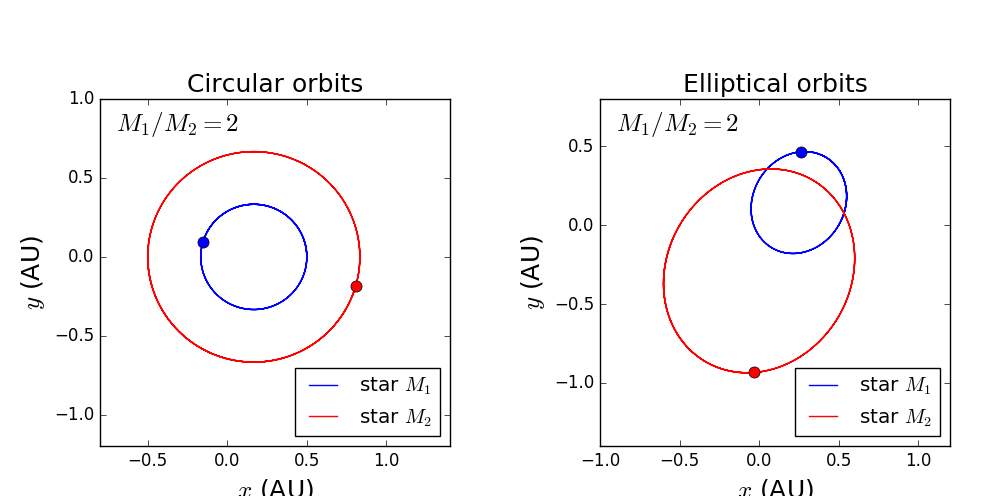
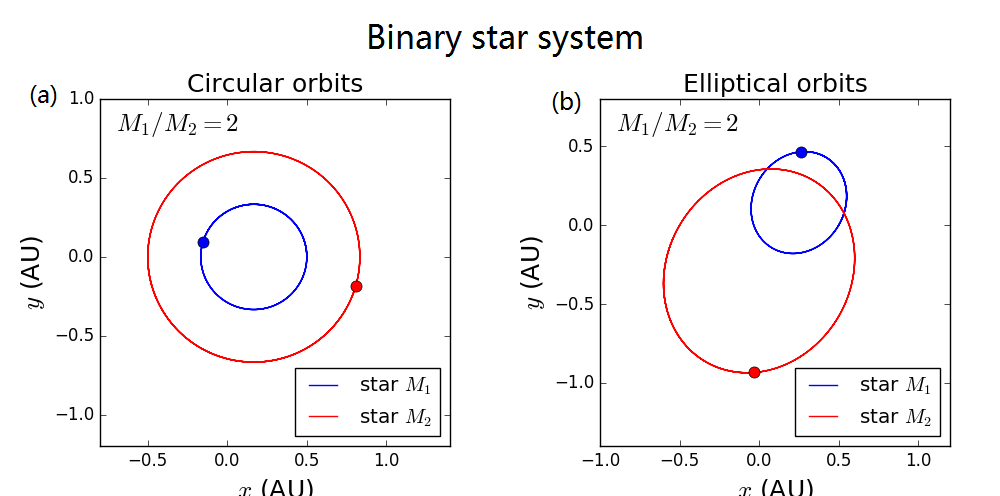
refine ch4

Changed region(s): [[0.341, 0.0302, 0.651, 0.121], [0.558, 0.1815, 0.589, 0.2419], [0.031, 0.1815, 0.062, 0.2117]]

diff --git a/chapter4_solar_sys/ch4_solar_sys_inversesquare.py b/chapter4_solar_sys/ch4_solar_sys_inversesquare.py
@@ -1,10 +1,19 @@
-
+'''
+PROGRAM solar sys inversesquare
+this program solves for the non-inverse-square gravity
+author: ChenYangyao          Last Modify: 20160508
+'''
 from numpy import *
 import matplotlib.pyplot as plt
 
 class INVERSE(object):
     ''' 
     class BINARY solves for system that not satisfy the inverse-square law
+    where:
+        -beta: index of the force
+        e: ellipticity
+        m: mass of central star
+        dt, time : time step size and total time 
     '''
     def __init__(self, _beta=2.05, _e=0., _m=4*(pi**2), _dt=0.001, _time=10):
         self.m=_m
@@ -16,18 +25,18 @@ class INVERSE(object):
         self.time= _time
         self.n=int(_time/_dt)
         print self.x[-1],self.y[-1],self.vx[-1],self.vy[-1]
-    def cal(self):
+    def cal(self):       # use Euler-Cromer Method to calculate the trajectory of stars
         for i in range(self.n):
             self.r=sqrt(self.x[-1]**2+self.y[-1]**2)
             self.vx.append(self.vx[-1]+self.dt*(-self.m*self.x[-1]/self.r**(self.beta+1.)))
             self.vy.append(self.vy[-1]+self.dt*(-self.m*self.y[-1]/self.r**(self.beta+1.)))
             self.x.append(self.x[-1]+self.vx[-1]*self.dt)
             self.y.append(self.y[-1]+self.vy[-1]*self.dt)
-    def plot_trajectory(self,_ax,_style):
+    def plot_trajectory(self,_ax,_style):       # plot the trajectory
         _ax.plot(self.x,self.y,'o'+_style,markersize=0.5,label='e= %.2f'%self.e)
         _ax.plot([self.x[-1]],[self.y[-1]],'o'+_style,markersize=8)
         _ax.plot([0],[0],'or',markersize=20)
-    def precession_rate(self):
+    def precession_rate(self):  # calculate the precession rate
         self.x_critical=0
         self.y_critical=0
         self.t_critical=0
@@ -43,7 +52,7 @@ class INVERSE(object):
         self.rate = arctan(self.y_critical/self.x_critical)/self.t_critical
         return self.rate
         
-       
+# calculate the trajectory of planet with different ellipticity       
 fig=plt.figure(figsize=(10,10)) 
 ax1=plt.axes([0.1,0.55,0.35,0.35])
 ax2=plt.axes([0.6,0.55,0.35,0.35])
@@ -100,6 +109,7 @@ for i in range(len(cmp.x)):
     print >> mfile,cmp.x[i],cmp.y[i]
 mfile.close()
 
+# change the ellipticity and get the corresponding precession rate
 e=[]
 rate=[]
 for i in linspace(0.1,0.6,20):

diff --git a/chapter4_solar_sys/ch4_solar_gr_bending.py b/chapter4_solar_sys/ch4_solar_gr_bending.py
@@ -1,3 +1,8 @@
+'''
+PROGRAM solar gr bending 
+this program solves for the bending of light in GR theory
+author: ChenYangyao          Last Modify: 20160508
+'''
 
 from numpy import *
 import matplotlib.pyplot as plt
@@ -5,6 +10,10 @@ import matplotlib.pyplot as plt
 class BENDING(object):
     ''' 
     class BENDING solves for bending of light
+    where:  
+        E: Energy  L: angular momentum  M: mass of central star   
+        r0, ph0: initial distance and angle between star and source
+        dt, time :time step size and total time
     '''
     def __init__(self, _E=0.22, _L=1., _M=1., _r0=2.5,_ph0=0., _dt=0.0001, _time =20.):
         self.E, self.L, self.M=_E, _L, _M

diff --git a/README.md b/README.md
@@ -8,7 +8,8 @@
 [第7次作业(chapter2,棒球运动)](https://www.zybuluo.com/cyy652415049/note/338769)  
 [第8次作业(chapter3,简谐摆和非简谐摆)](https://www.zybuluo.com/cyy652415049/note/347388)  
 [第9次作业(chapter3,混沌摆)](https://www.zybuluo.com/cyy652415049/note/355836)  
-[第10次作业(chapter3,Lorenz模型和台球运动)](https://www.zybuluo.com/cyy652415049/note/358905)
+[第10次作业(chapter3,Lorenz模型和台球运动)](https://www.zybuluo.com/cyy652415049/note/358905)    
+[第11次作业(chapter4,行星运动)](https://www.zybuluo.com/cyy652415049/note/363775)
 
 ## 第一次作业(20160303)
 * 安装Linux系统  
